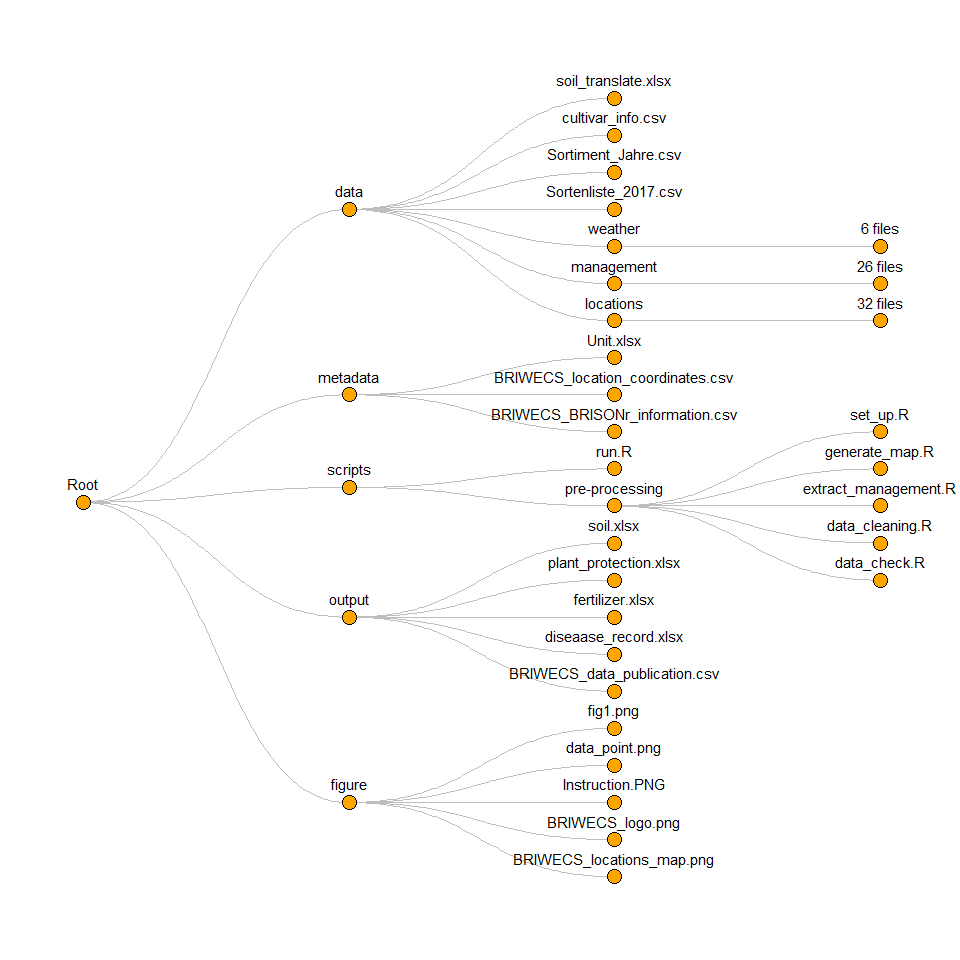
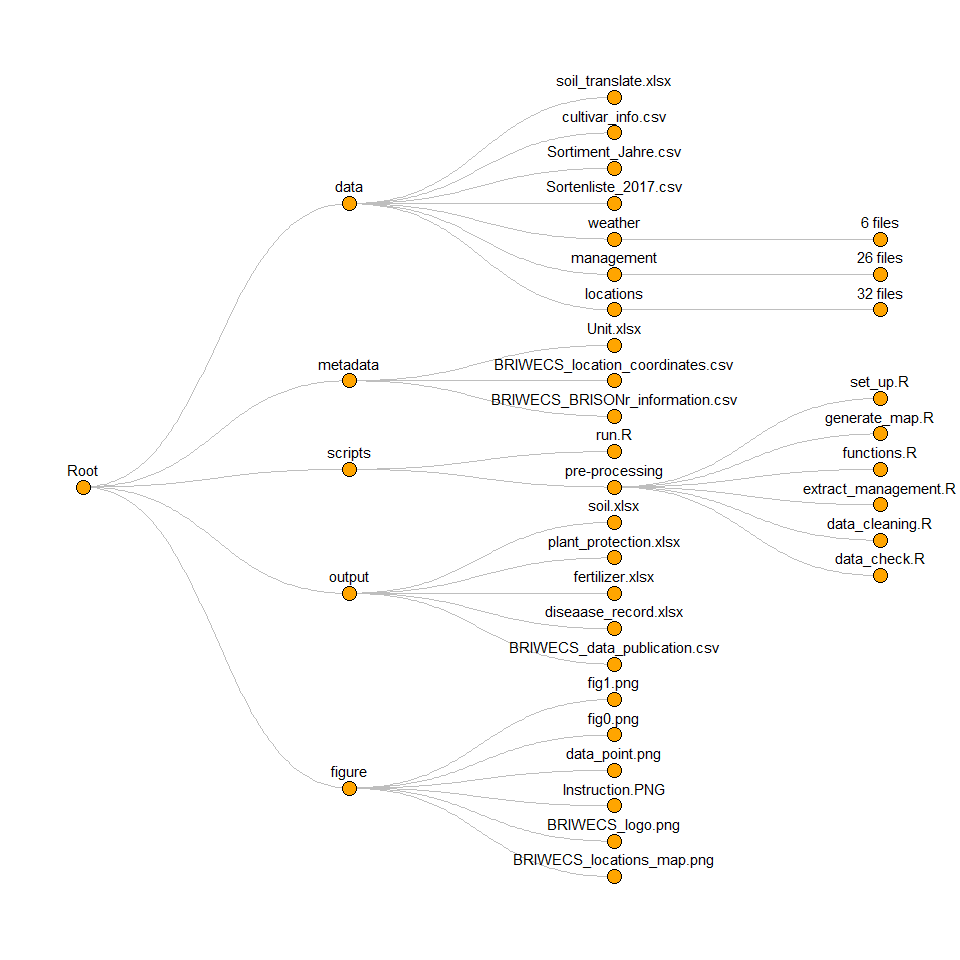
add soil map

diff --git a/README.md b/README.md
@@ -468,17 +468,13 @@ g
 
 ## overview visualizations
 
-<figure>
 <img
+src="https://github.com/tillrose/BRIWECS_Data_Publication/blob/main/figure/fig0.png"
+data-fig-align="center"
+alt="Fig0. Experiments location and soil properties." /> <img
 src="https://github.com/tillrose/BRIWECS_Data_Publication/blob/main/figure/fig1.png"
 data-fig-align="center"
 alt="Fig1. An overview of MET data descriptor of winter wheat containing 24 traits collected across six locations in Germany (GGE, HAN, KAL, KIE, QLB, RHH) with nine managements (HN_WF_RO, LN_NF_IR, HN_NF_IR, HN_WF_IR, HN_WF_RF, LN_WF_IR, HN_NF_RF, LN_NF_RF and LN_WF_RF) during six years (2015-2020)." />
-<figcaption aria-hidden="true">Fig1. An overview of MET data descriptor
-of winter wheat containing 24 traits collected across six locations in
-Germany (GGE, HAN, KAL, KIE, QLB, RHH) with nine managements (HN_WF_RO,
-LN_NF_IR, HN_NF_IR, HN_WF_IR, HN_WF_RF, LN_WF_IR, HN_NF_RF, LN_NF_RF and
-LN_WF_RF) during six years (2015-2020).</figcaption>
-</figure>
 
 <figure>
 <img
